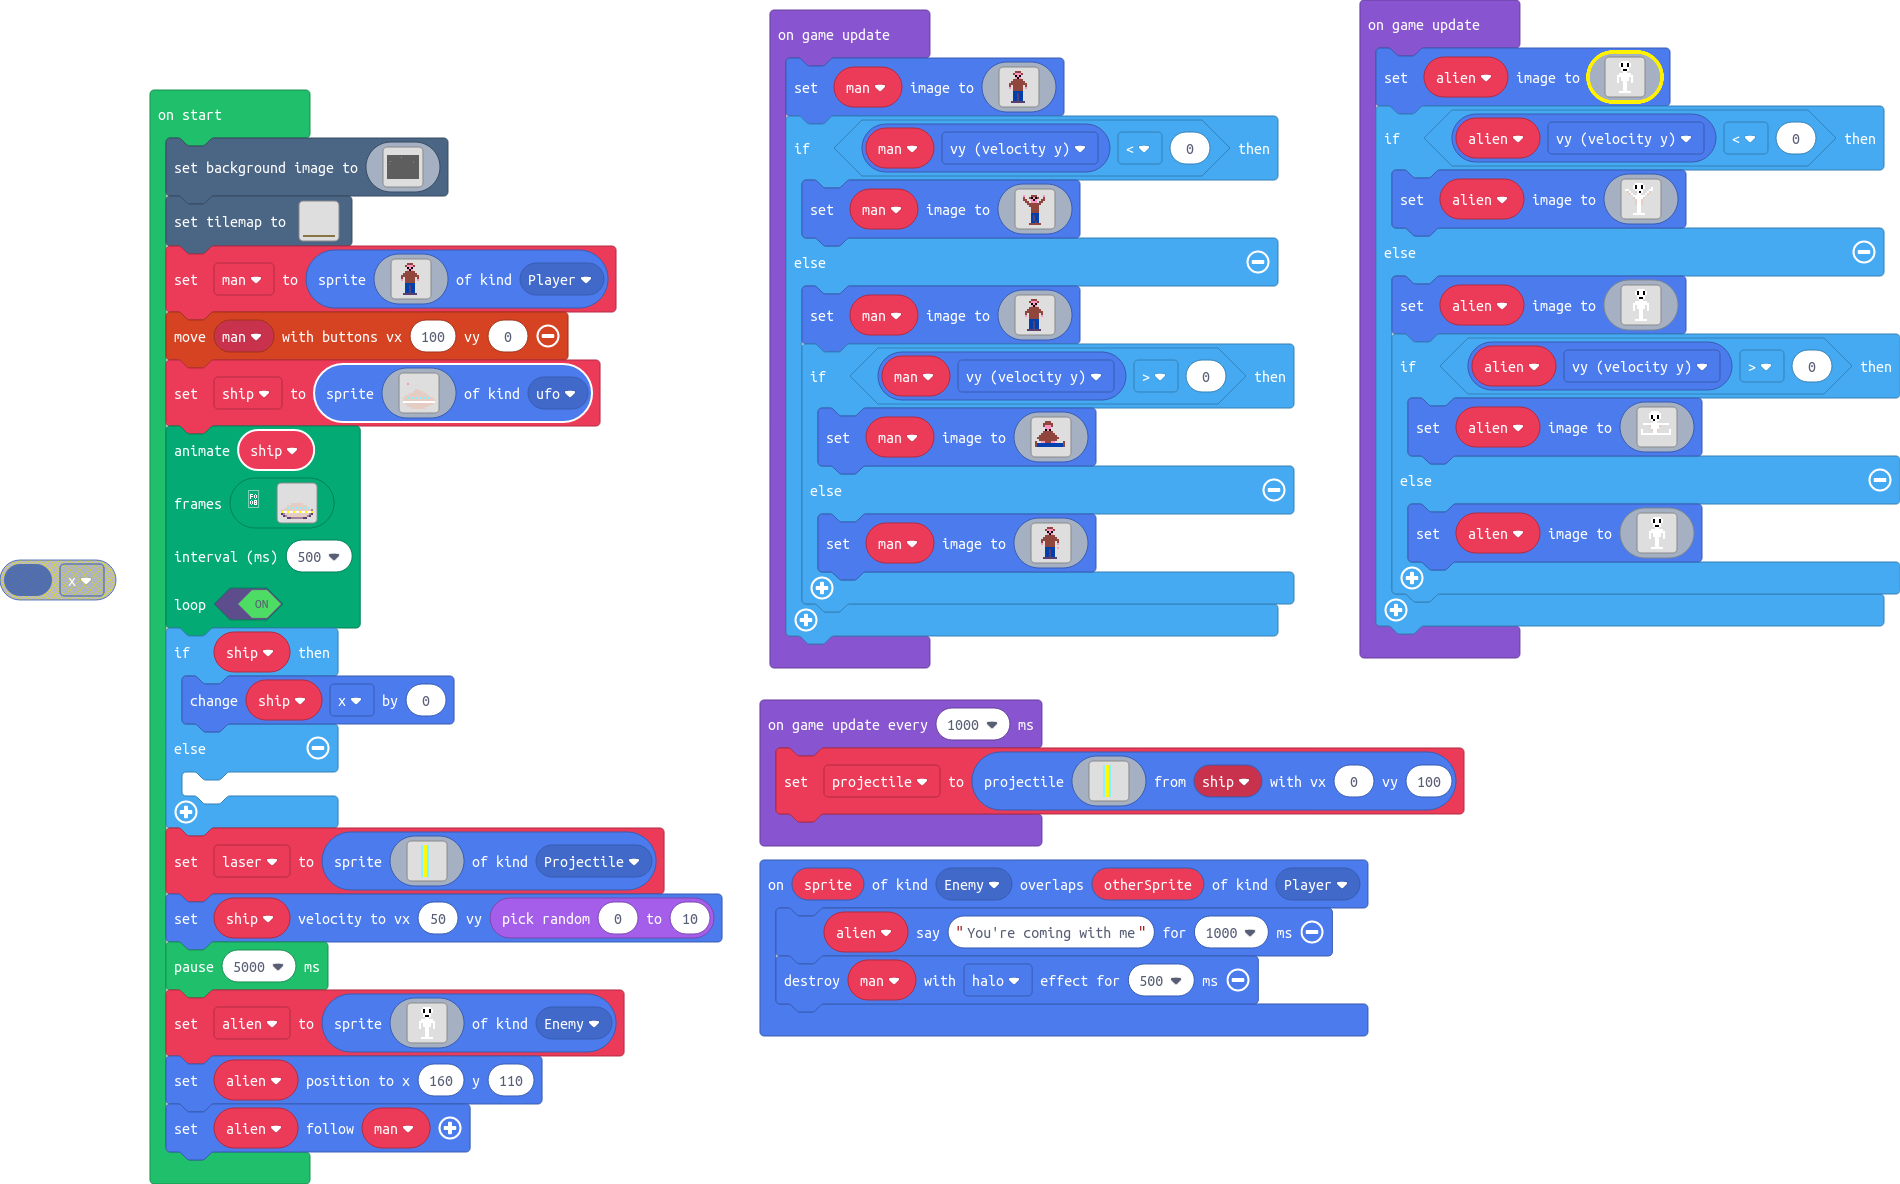
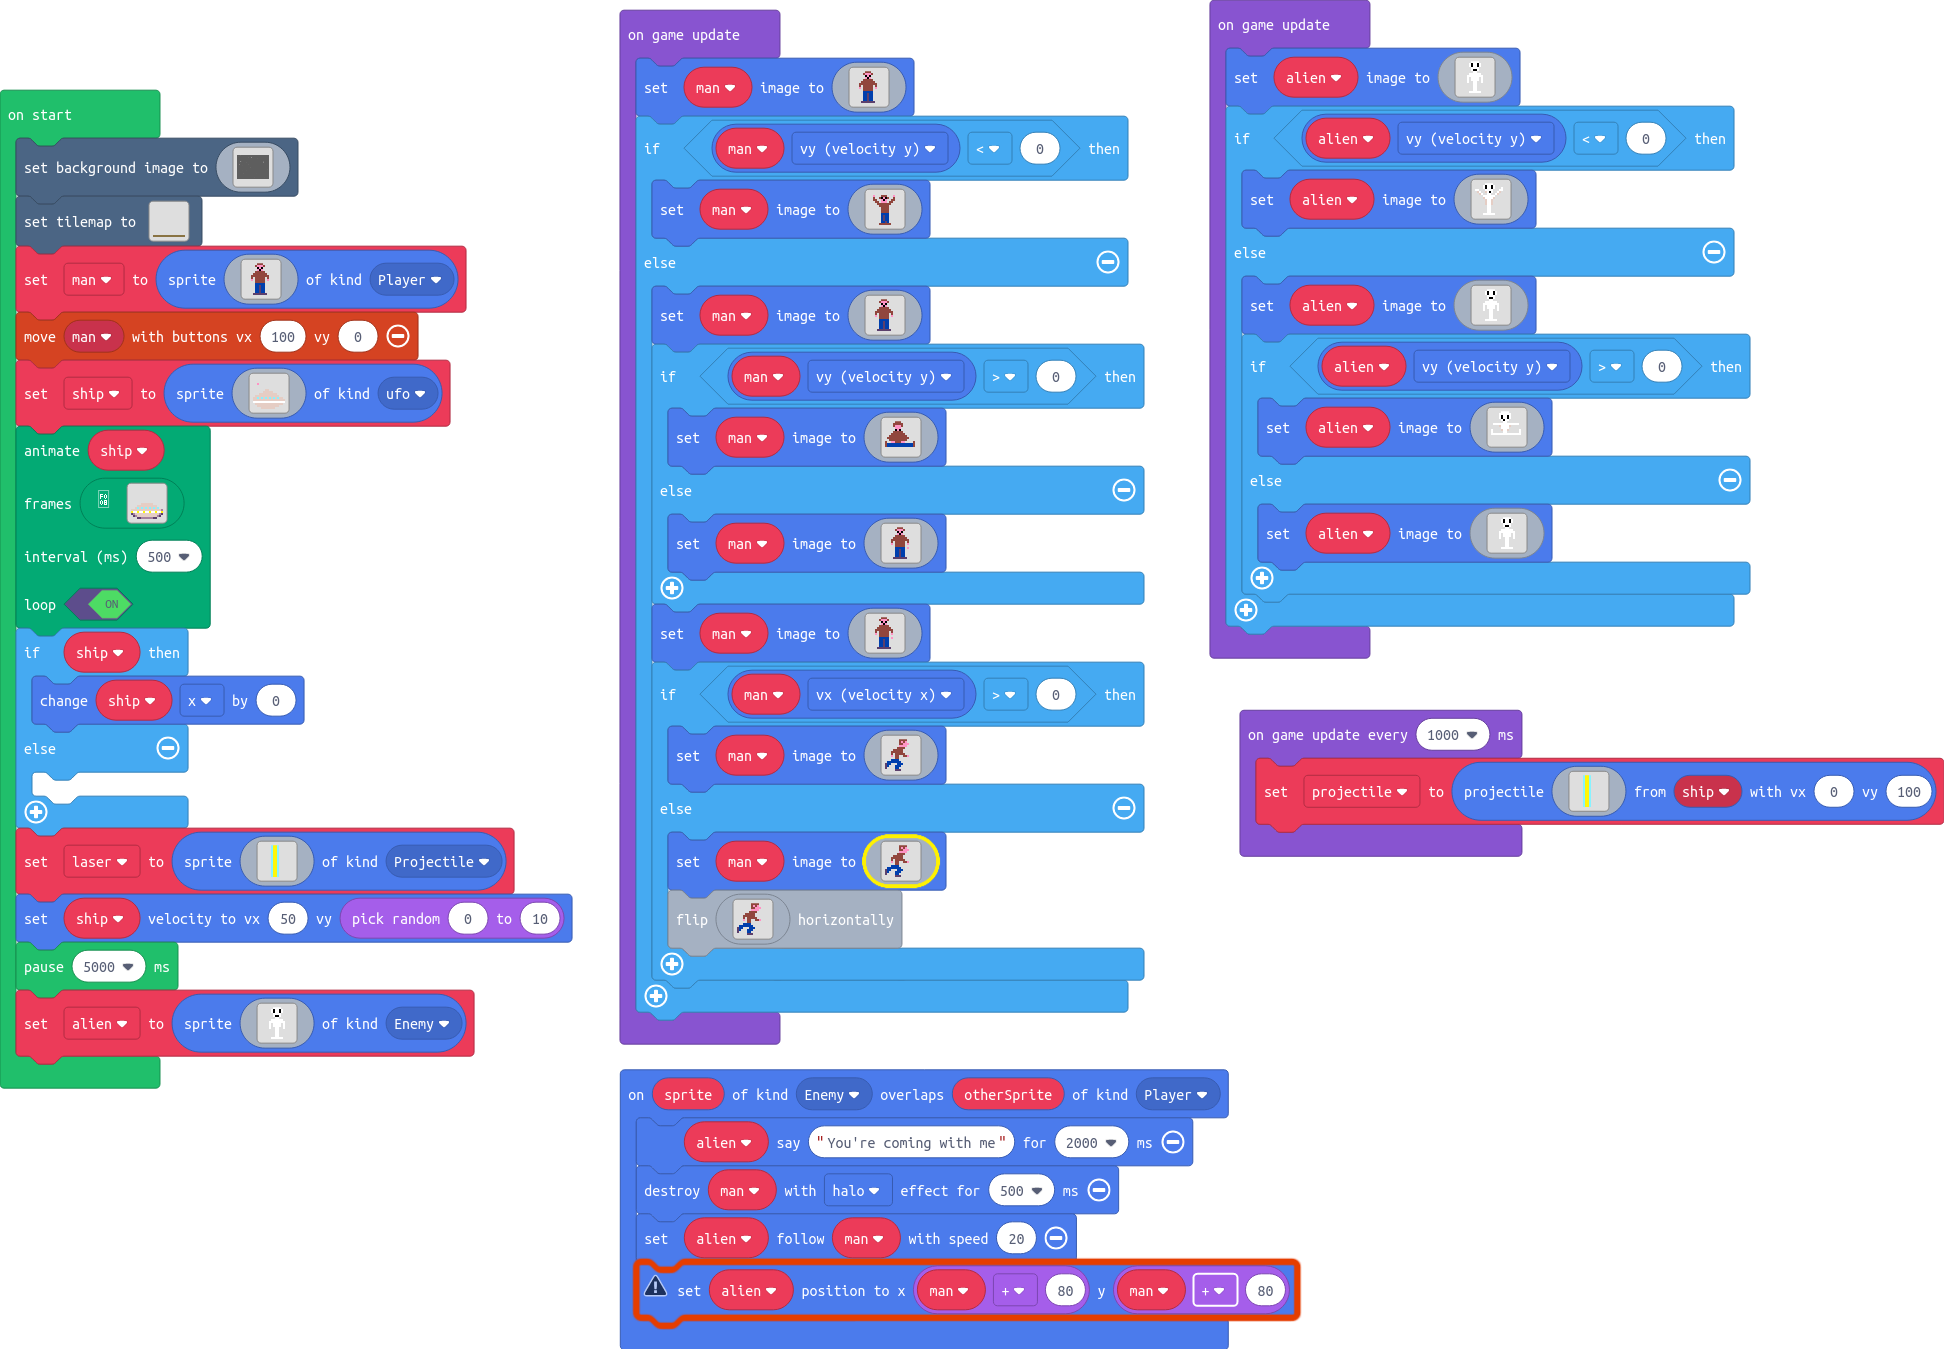
Update main.blocks, main.ts

diff --git a/main.ts b/main.ts
@@ -42,8 +42,10 @@ e e e e e e e e e e e e e e e e
 `
 }
 sprites.onOverlap(SpriteKind.Enemy, SpriteKind.Player, function (sprite, otherSprite) {
-    alien.say("You're coming with me", 1000)
+    alien.say("You're coming with me", 2000)
     man.destroy(effects.halo, 500)
+    alien.follow(man, 20)
+    alien.setPosition(man + 80, man + 80)
 })
 let projectile: Sprite = null
 let alien: Sprite = null
@@ -330,8 +332,6 @@ alien = sprites.create(img`
 . . . . . . . 1 1 . . . . . . . 
 . . . . . 1 1 1 1 1 1 . . . . . 
 `, SpriteKind.Enemy)
-alien.setPosition(160, 110)
-alien.follow(man)
 game.onUpdate(function () {
     man.setImage(img`
 . . . . . . e e e . . . . . . . 
@@ -427,6 +427,81 @@ e 8 8 8 8 8 8 8 8 8 8 8 8 8 e .
 . . . . . 8 8 c 8 8 . . . . . . 
 . . . . c c c c c c c . . . . . 
 `)
+        }
+        man.setImage(img`
+. . . . . . e e e . . . . . . . 
+. . . . . e 3 3 3 e . . . . . . 
+. . . . . . f 3 f . . . . . . . 
+. . . . . . 3 f 3 . . . . . . . 
+. . . . . e e e e e . . . . . . 
+. . . . e e e e e e e . . . . . 
+. . . e e e e e e e e e . . . . 
+. . . e . e e e e e . e . . . . 
+. . . 3 . e e e e e . 3 . . . . 
+. . . . . e e e e e . . . . . . 
+. . . . . 8 8 8 8 8 . 3 . . . . 
+. . . . . 8 8 c 8 8 . . . . . . 
+. . . . . 8 8 c 8 8 . . . . . . 
+. . . . . 8 8 c 8 8 . . . . . . 
+. . . . . 8 8 c 8 8 . . . . . . 
+. . . . c c c c c c c . . . . . 
+`)
+        if (man.vx > 0) {
+            man.setImage(img`
+. . . . . . . e e e e . . . . . 
+. . . . . . . e 3 e 3 . . . . . 
+. . . . . . . e e 3 3 3 . . . . 
+. . . . . . . 3 3 3 3 . . . . . 
+. . . . . . e e e e . . . . . . 
+. . . . e e e e e . . . . . . . 
+. . . e e e e e e . . . . . . . 
+. . . e . e e e e e . . . . . . 
+. . . 3 . e e . . e e 3 . . . . 
+. . . . . e e . . . . . . . . . 
+. . . 8 8 8 8 . . . . . . . . . 
+. 8 8 8 8 8 8 8 . . . . . . . . 
+c 8 8 . . . 8 8 8 . . . . . . . 
+c 8 . . . 8 8 8 . . . . . . . . 
+c . . . . 8 8 . . . . . . . . . 
+. . . . . c c c . . . . . . . . 
+`)
+        } else {
+            man.setImage(img`
+. . . . . . . e e e e . . . . . 
+. . . . . . . e 3 e 3 . . . . . 
+. . . . . . . e e 3 3 3 . . . . 
+. . . . . . . 3 3 3 3 . . . . . 
+. . . . . . e e e e . . . . . . 
+. . . . e e e e e . . . . . . . 
+. . . e e e e e e . . . . . . . 
+. . . e . e e e e e . . . . . . 
+. . . 3 . e e . . e e 3 . . . . 
+. . . . . e e . . . . . . . . . 
+. . . 8 8 8 8 . . . . . . . . . 
+. 8 8 8 8 8 8 8 . . . . . . . . 
+c 8 8 . . . 8 8 8 . . . . . . . 
+c 8 . . . 8 8 8 . . . . . . . . 
+c . . . . 8 8 . . . . . . . . . 
+. . . . . c c c . . . . . . . . 
+`)
+            img`
+. . . . . . . e e e e . . . . . 
+. . . . . . . e 3 e 3 . . . . . 
+. . . . . . . e e 3 3 3 . . . . 
+. . . . . . . 3 3 3 3 . . . . . 
+. . . . . . e e e e . . . . . . 
+. . . . e e e e e . . . . . . . 
+. . . e e e e e e . . . . . . . 
+. . . e . e e e e e . . . . . . 
+. . . 3 . e e . . e e 3 . . . . 
+. . . . . e e . . . . . . . . . 
+. . . 8 8 8 8 . . . . . . . . . 
+. 8 8 8 8 8 8 8 . . . . . . . . 
+c 8 8 . . . 8 8 8 . . . . . . . 
+c 8 . . . 8 8 8 . . . . . . . . 
+c . . . . 8 8 . . . . . . . . . 
+. . . . . c c c . . . . . . . . 
+`.flipX()
         }
     }
 })
